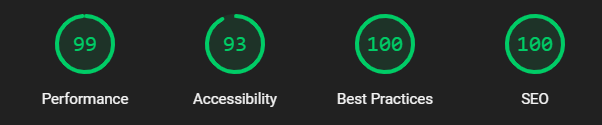
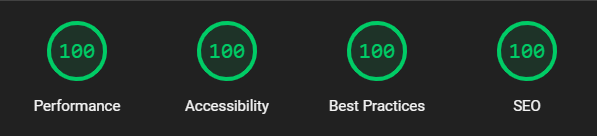
upd pagespeed insights

diff --git a/README.md b/README.md
@@ -33,7 +33,11 @@ Warning: Components in ./components are free components provided by tailgrids. T
 - cookie banner
 - seo and accessibility optimization (aria-labels, head, alt ...)
 
-![lighthouse scores](readme-assets/lighthouse-scores.png)
+## Lighthouse Scores
+
+[![lighthouse scores](readme-assets/lighthouse-scores.png "Scores")](https://pagespeed.web.dev/analysis/https-funny-cassata-d205d1-netlify-app/6pooz8d7qw?form_factor=desktop&category=performance&category=accessibility&category=best-practices&category=seo&hl=en-US&utm_source=lh-chrome-ext)
+
+<https://pagespeed.web.dev/analysis/https-funny-cassata-d205d1-netlify-app/6pooz8d7qw?form_factor=desktop&category=performance&category=accessibility&category=best-practices&category=seo&hl=en-US&utm_source=lh-chrome-ext/>
 
 ## Potential Future Work
 
